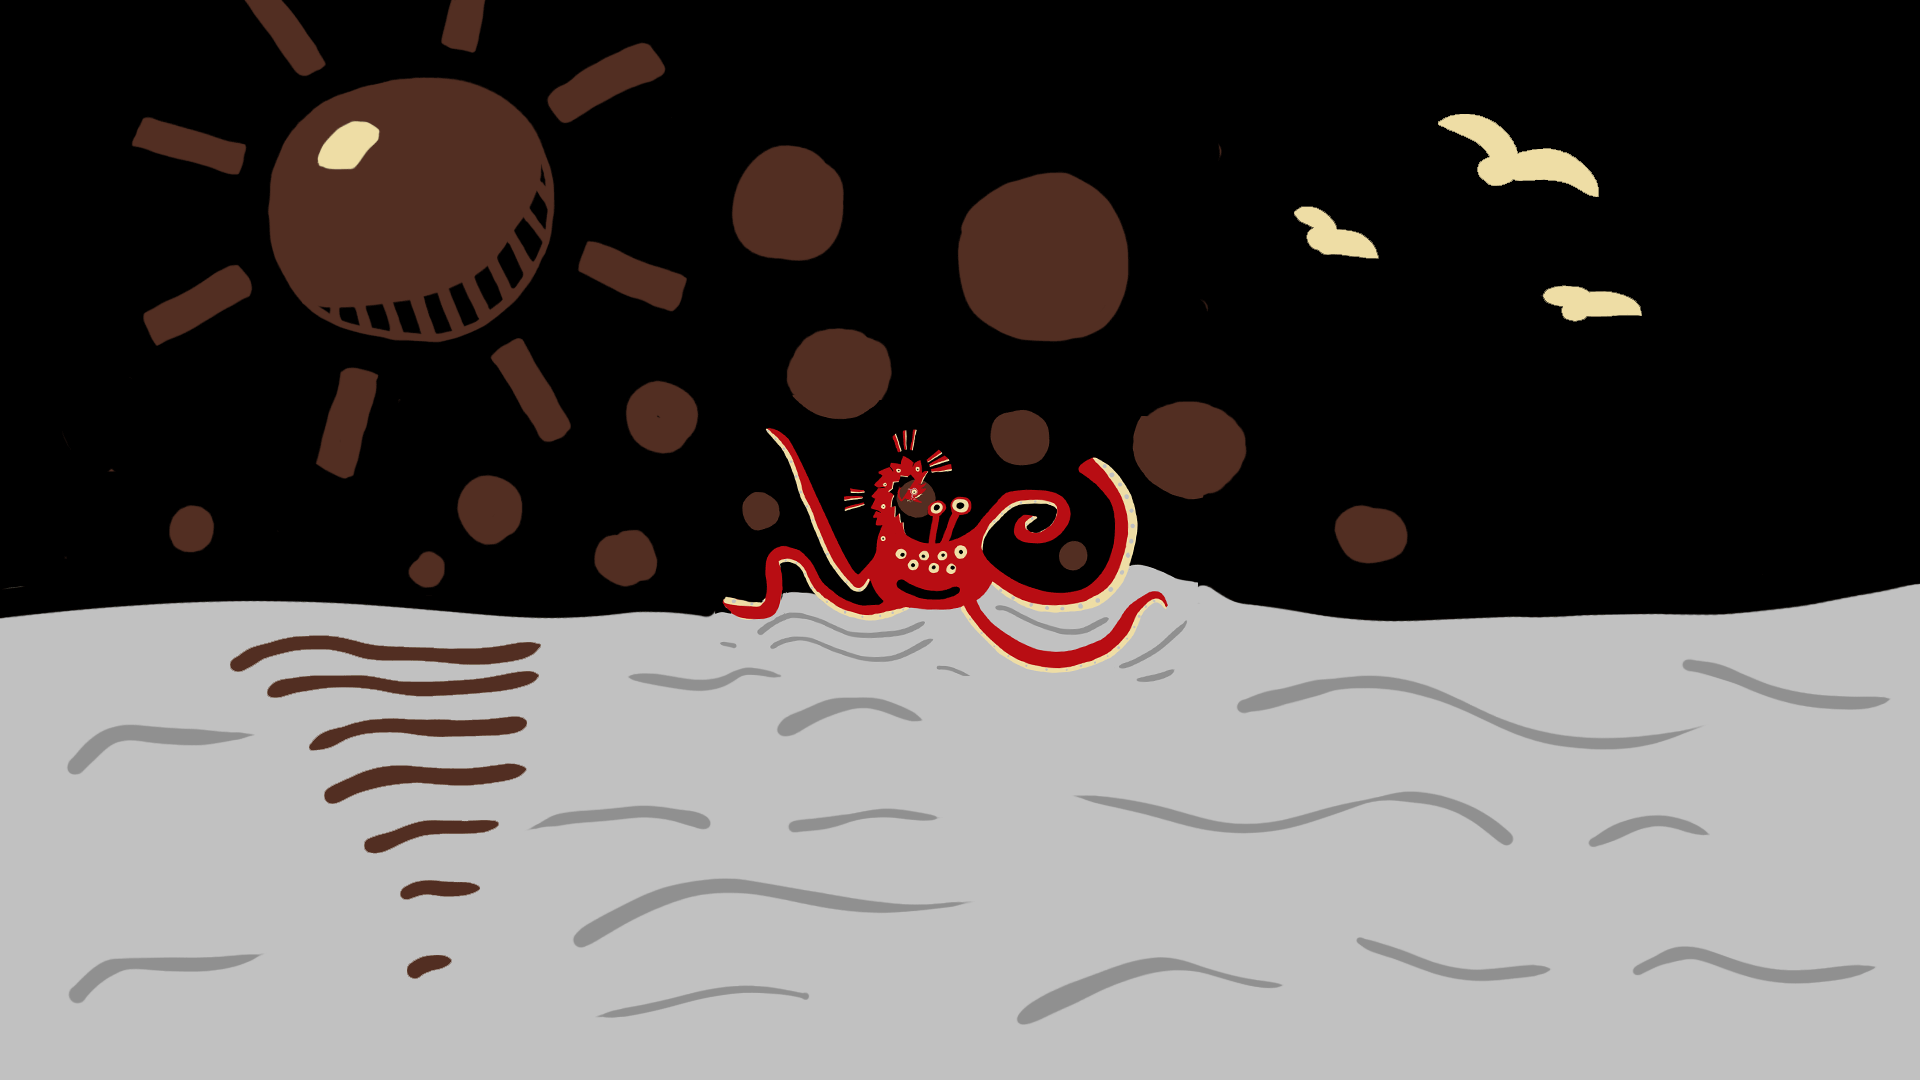
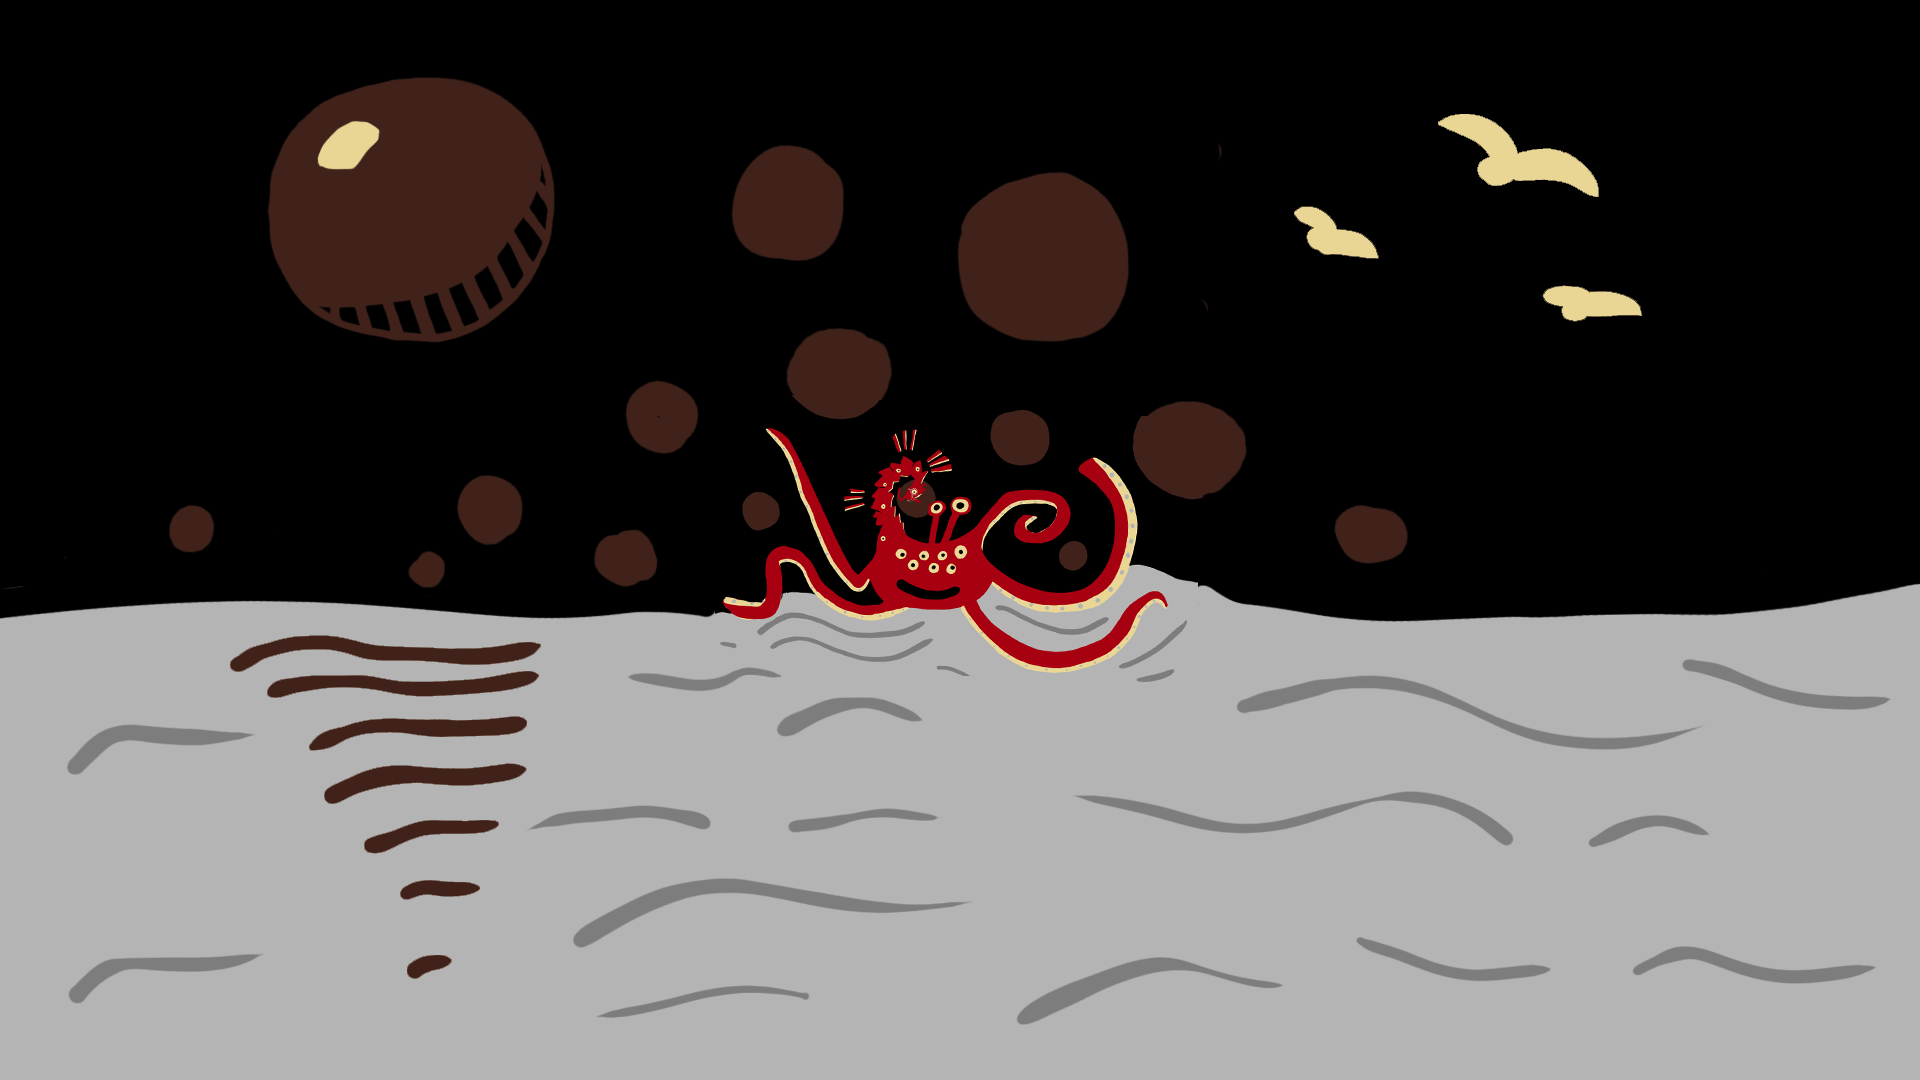
Add rotating sun rays

diff --git a/src/seamonster.js b/src/seamonster.js
@@ -21,6 +21,8 @@
 
       this.imageElement = document.createElement('img');
       Loader.load('res/seamonster.png', this.imageElement, () => null);
+      this.sunElement = document.createElement('img');
+      Loader.load('res/sun.png', this.sunElement, () => null);
     }
 
     update(frame) {
@@ -36,9 +38,16 @@
     render() {
       this.ctx.save();
       this.ctx.scale(16 * GU / 1920, 16 * GU /  1920);
-      this.ctx.translate(1920 / 2, 1080 / 2);
+      this.ctx.drawImage(this.imageElement, 0, 0);
 
-      this.ctx.drawImage(this.imageElement, -1920 / 2, -1080 / 2);
+      this.ctx.save();
+      this.ctx.translate(409, 209);
+      this.ctx.rotate(0.45 - this.frame / 200);
+      this.ctx.drawImage(
+        this.sunElement,
+        -283.5, -271.5
+      );
+      this.ctx.restore();
 
       this.ctx.restore();
     }
